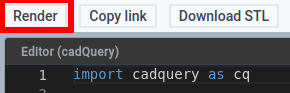
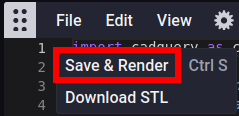
Updated for CadHub changes and added docs license

diff --git a/docs/generate.md b/docs/generate.md
@@ -3,7 +3,7 @@
 ## Open the Braille Sign {pagestep: open}
 
 * Open the design in CadHub.xyz by right clicking [this link](https://cadhub.xyz/dev-ide/cadQuery#fetch_text_v1=https://github.com/7B-Things/braille-signage-generator/blob/main/braille_signage_generator.py) and opening in a new tab.
-* The default braille sign should generate within 30 seconds or so. If it does not, click the _Render_ button to re-render it.
+* The default braille sign should generate within 30 seconds or so. If it does not, click `File->Save & Render` to re-render it.
 
 ![CadHub.xyz Render button](images/braille_sign_generator_cadhub_render_button.png)
 
@@ -19,7 +19,7 @@
 
 ## Render the Modified Braille Sign {pagestep: render}
 
-* Click the _Render_ button to generate the sign with the new braille based on the text variable.
+* Click `File->Save & Render` to generate the sign with the new braille based on the text variable.
 
 ![CadHub.xyz Render button](images/braille_sign_generator_cadhub_render_button.png)
 
@@ -32,7 +32,7 @@
 
 ## Download the Modified Braille Sign {pagestep: download}
 
-* Once the render is complete, the _Download STL_ button can be clicked to download an STL file that can be used with slicer software.
+* Once the render is complete, clicking `File->Download STL` will download an STL file that can be used with slicer software.
 
 ![CadHub Download STL button](images/braille_sign_generator_download_stl_button.png)
 

diff --git a/README.md b/README.md
@@ -33,3 +33,4 @@ If there are any errors, or if there are improvements to be made, please open an
 
 * [Apache Software License 2.0](https://www.apache.org/licenses/LICENSE-2.0.html) - Software
 * [CERN-OHL-P-2.0](https://ohwr.org/cern_ohl_p_v2.txt) - Hardware
+* [CC-BY-SA-4.0](https://creativecommons.org/licenses/by-sa/4.0/) - Documentation
